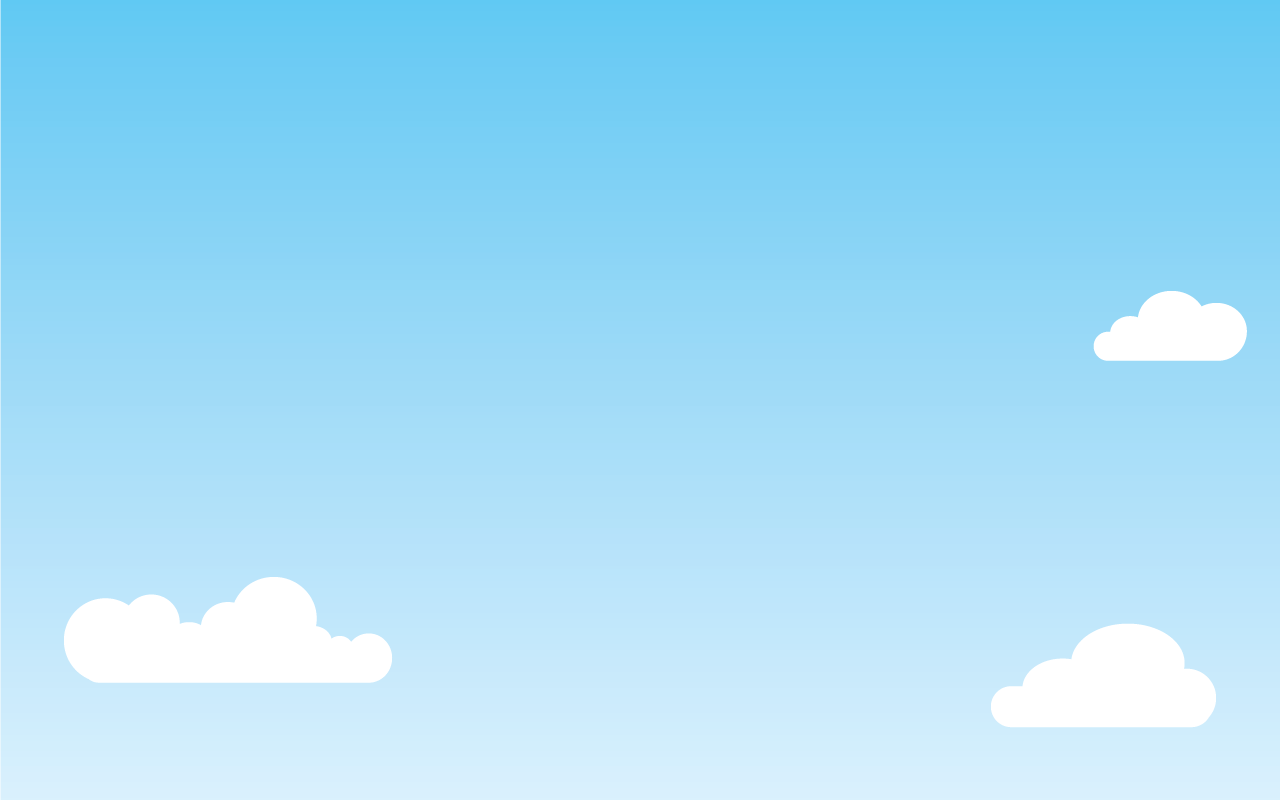
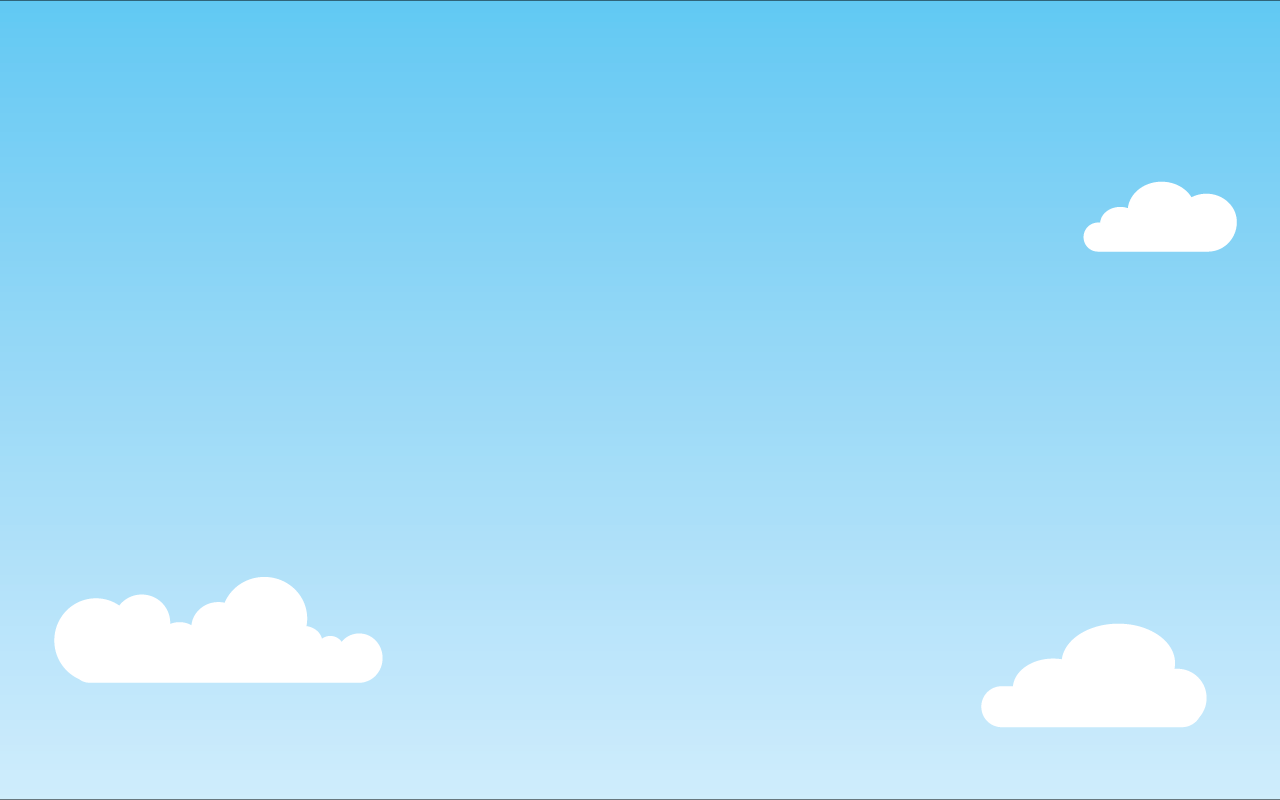
fix beugs, design work, implement mailchimp

diff --git a/app/assets/stylesheets/layout/_navbar.scss b/app/assets/stylesheets/layout/_navbar.scss
@@ -1,14 +1,13 @@
 /* NAVBAR */
 
 .navbar {
-  background: white;
   -webkit-transition: all 0.3s ease;
   transition: all 0.3s ease;
   display: -webkit-box;
   display: -webkit-flex;
   display: -ms-flexbox;
   display: flex;
-  height: 70px;
+  height: 120px;
   padding: 0px 30px;
   -webkit-box-align: center;
   -webkit-align-items: center;
@@ -16,8 +15,22 @@
   align-items: center;
   color: #3A3841;
   background: transparent;
+  background: -webkit-linear-gradient(rgba(97, 200, 242, 100), rgba(123, 208, 245, 0)); /* For Safari 5.1 to 6.0 */
+  background: -o-linear-gradient(rgba(97, 200, 242, 100), rgba(123, 208, 245, 0)); /* For Opera 11.1 to 12.0 */
+  background: -moz-linear-gradient(rgba(97, 200, 242, 100), rgba(123, 208, 245, 0)); /* For Firefox 3.6 to 15 */
+  background: linear-gradient(rgba(97, 200, 242, 100), rgba(123, 208, 245, 0)); /* Standard syntax */
+  background-size: cover;
+  background-repeat: no-repeat;
+  background-position: center center;
   &-logo {
-  background-image: url(logo.png);
+  background-image: url("logoflykke.png");
+  background-size: cover;
+  background-repeat: no-repeat;
+  background-position: center center;
+  margin-top: 30px;
+  height: 90px;
+  width: 400px;
+  margin-left: 32%;
   }
   &-fixed {
     position: fixed;
@@ -29,7 +42,7 @@
   &-link a {
   font-family: "arista 2.0", "sans-serif";
   color: $yellow;
-  font-size: 35px;
+  font-size: 25px;
   text-decoration: none;
   }
   a:hover {

diff --git a/app/assets/stylesheets/pages/_home.scss b/app/assets/stylesheets/pages/_home.scss
@@ -10,12 +10,13 @@ body {
 h1 {
   color: $yellow;
   font-family: "arista 2.0", "sans-serif";
-  font-size: 42px;
+  font-size: 32px;
 }
 
 h2 {
   color: white;
   font-family: "varela round", "sans-serif";
+  font-size: 20px;
 }
 
 .chevron {
@@ -136,10 +137,10 @@ h2 {
     border: 0px solid white;
 }
 
-.dark-blue {
+.btn-subscribe {
     background-color: $blue;
     font-family: "varela round", "sans-serif";
-    font-size: 21px;
+    font-size: 20px;
     color: white;
     width: 160px;
     height: 55px;
@@ -176,23 +177,21 @@ h2 {
 .background.infos p {
   font-family: "varela round", "sans-serif";
   color: $blue;
+  font-size: 12px;
 }
 
 .background.infos h3 {
   font-family: "varela round", "sans-serif";
   color: $dark-blue;
   font-weight: bolder;
-  font-size: 18px;
+  font-size: 15px;
   margin-top: -20px;
 }
 
 .frame {
-  margin-top: 350px;
+  margin-top: 400px;
 }
 
-.container {
-  width: 1400px;
-}
 
 .dontchange {
   background-image: url("dontchange.png");

diff --git a/app/assets/stylesheets/layout/_footer.scss b/app/assets/stylesheets/layout/_footer.scss
@@ -10,21 +10,19 @@
     justify-content: center;
 }
 
-.main-footer {
-  margin-bottom: 50px;
-}
+
 
 .main-footer p {
   font-family: "varela round", "sans-serif";
   color: $blue;
-  font-size: 28px;
+  font-size: 18px;
 }
 
 .margin-v-30 {
     margin-top: 30px;
     margin-bottom: 30px;
     &-infos {
-      width: 430px;
+      width: 370px;
     }
 }
 
@@ -34,8 +32,8 @@
     background-repeat: no-repeat;
     background-position: center center;
     color: white;
-    width: 120px;
-    height: 100px;
+    width: 90px;
+    height: 60px;
     display: -webkit-box;
     display: -webkit-flex;
     display: -ms-flexbox;

diff --git a/app/assets/stylesheets/config/_variables.scss b/app/assets/stylesheets/config/_variables.scss
@@ -27,7 +27,7 @@ $base-height: 1.4;
 $brand-color: #D23333;
 
 $red: #EE5F5B;
-$white-blue: #CFEDFC;
+$white-blue: #C4E8FB;
 $blue: #61C8F2;
 $dark-blue: #00719F;
 $yellow: #FFF100;
